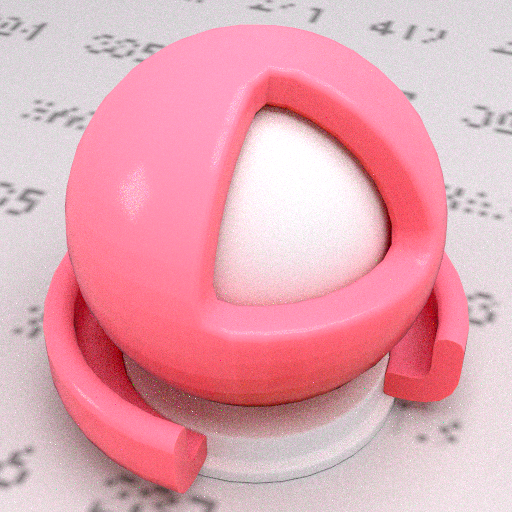
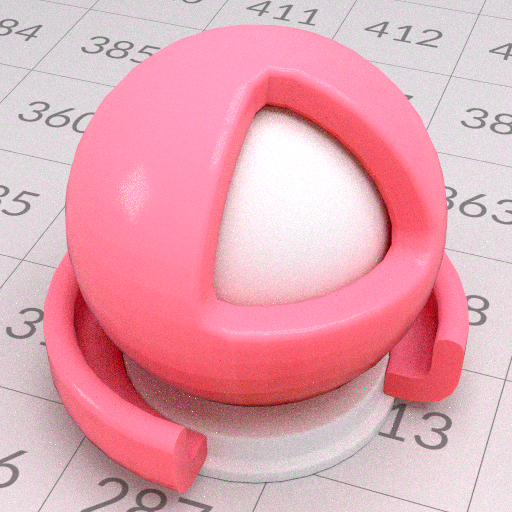
Restore authored material texture resolution
Limit only UDIM tiles, retain ordinary material images at source resolution, and refresh the affected gallery baselines.

diff --git a/src/hydra/texture_loader.cpp b/src/hydra/texture_loader.cpp
@@ -21,12 +21,11 @@ PXR_NAMESPACE_USING_DIRECTIVE
 namespace hdcodex {
 namespace {
 
-// The path tracer exposes a compact fixed material-texture table. Keeping
-// decoded material maps at the gallery/output scale avoids retaining several
-// gigabytes for large multi-material USD assets before the 256-entry GPU table
-// is built. HDR lighting textures continue to preserve their native range and
-// dimensions through preserveDynamicRange.
-constexpr int kMaxMaterialTextureDimension = 512;
+// Only UDIM tiles are residency-limited. Ordinary material images must retain
+// their authored dimensions: the StandardShaderBall detail maps are larger
+// than the gallery output and visibly lose labels and surface detail if they
+// are reduced to the output resolution.
+constexpr int kMaxUdimTextureDimension = 1024;
 
 HioImage::SourceColorSpace ToHioColorSpace(TextureColorSpace colorSpace)
 {
@@ -83,9 +82,9 @@ bool DecodeTexture(
     texture.udimTile = udimTile;
     int targetWidth = image->GetWidth();
     int targetHeight = image->GetHeight();
-    if (!preserveDynamicRange &&
-        std::max(targetWidth, targetHeight) > kMaxMaterialTextureDimension) {
-        const float scale = static_cast<float>(kMaxMaterialTextureDimension) /
+    if (!preserveDynamicRange && !udimSetId.empty() &&
+        std::max(targetWidth, targetHeight) > kMaxUdimTextureDimension) {
+        const float scale = static_cast<float>(kMaxUdimTextureDimension) /
             static_cast<float>(std::max(targetWidth, targetHeight));
         targetWidth = std::max(1, static_cast<int>(std::lround(targetWidth * scale)));
         targetHeight = std::max(1, static_cast<int>(std::lround(targetHeight * scale)));

diff --git a/docs/architecture.md b/docs/architecture.md
@@ -165,9 +165,9 @@ roughness, emission, opacity, tangent-space normals, transmission, dielectric
 specular, and coat. Indexed and face-varying UVs are triangulated in face-corner
 order. Images are normalized to RGBA8, uploaded as sRGB or raw Vulkan images,
 and accessed through a partially-bound descriptor array currently capped at
-256 textures. Material images and UDIM tiles are decoded to at most 512 pixels
-on their longest edge to bound CPU and GPU residency for texture-heavy scenes;
-HDR lighting textures retain their authored dimensions. UDIM sets use separate tile descriptors
+256 textures. UDIM tiles are decoded to at most 1024 pixels on their longest
+edge to bound CPU and GPU residency for texture-heavy scenes; ordinary material
+images and HDR lighting textures retain their authored dimensions. UDIM sets use separate tile descriptors
 selected from the integer UV tile, avoiding large sparse atlases; the current
 compact handle covers tiles 1001 through 1023.
 Opacity participates in primary and shadow ray-query candidate confirmation.
